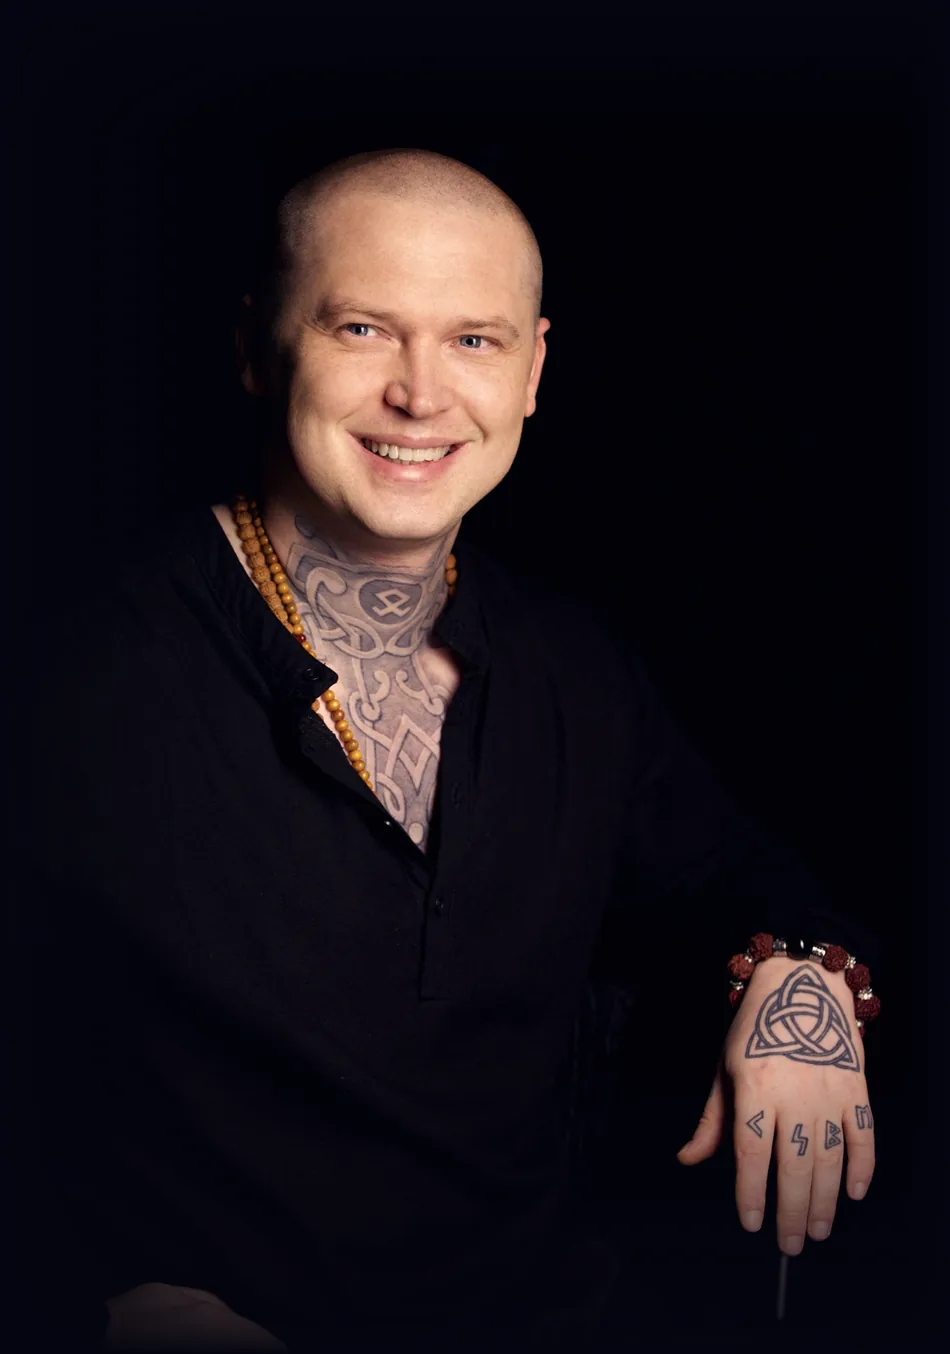
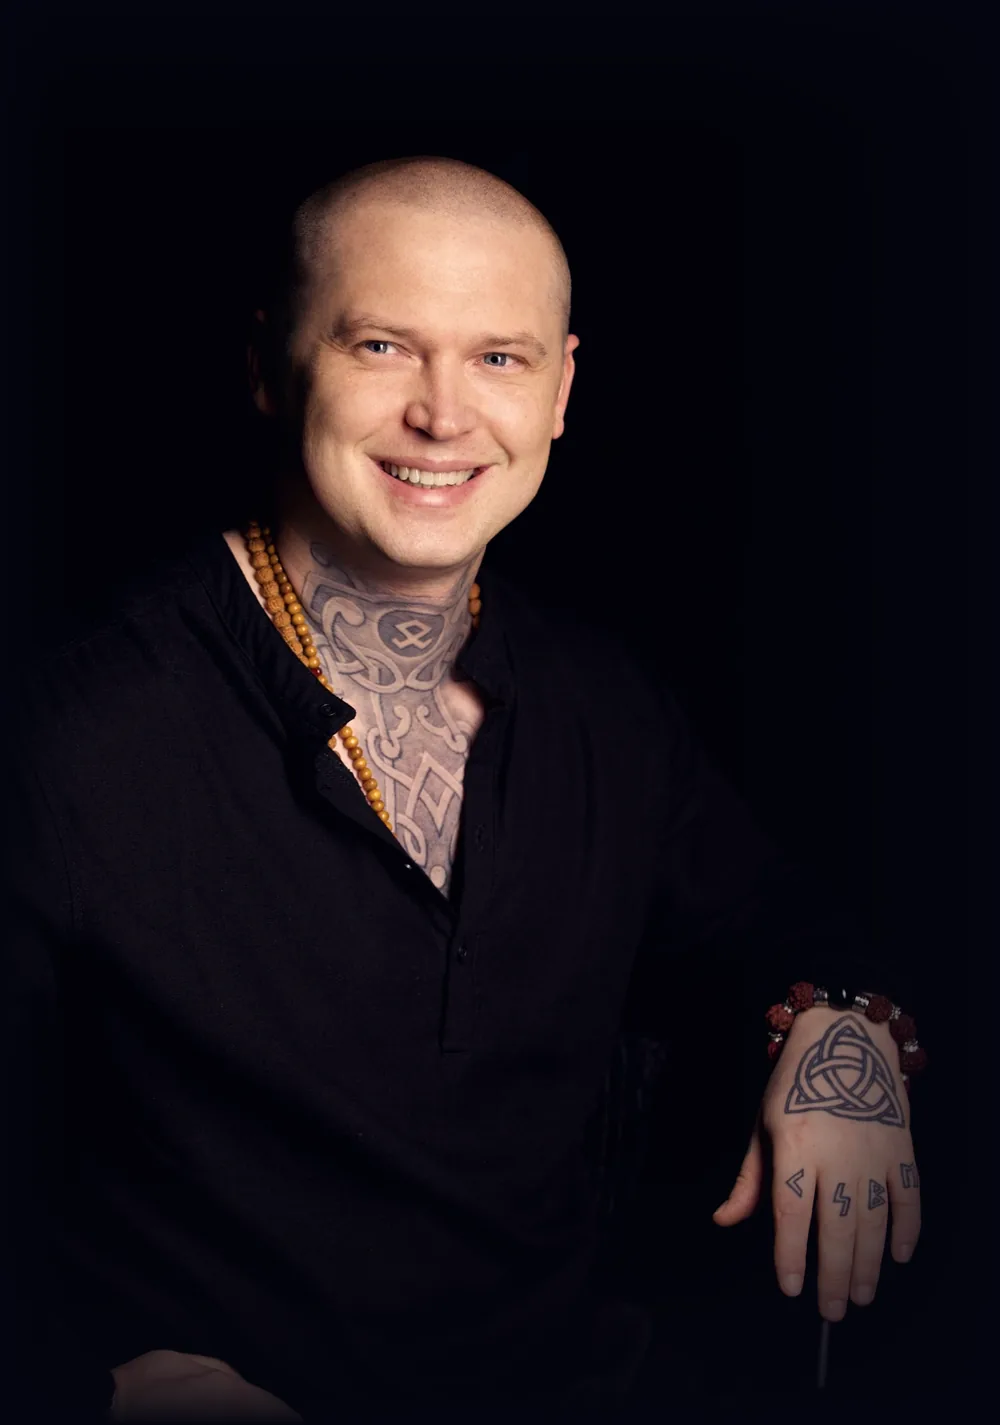
Author block: solid void, figure moves left, text moves right
The rectangle around the photo showed on desktop because I had tied the baked
backing colour to the veil, whose opacity changes as you scroll — so the two
matched at one scroll position and drifted apart at every other. The veil now
goes fully opaque and holds there for the whole time the figure is visible, in
exactly the colour baked behind it, which removes the edge by construction
rather than by approximation.

Sides swap per Vadym: figure left, copy right. The feather was re-rendered for
that placement — it now dissolves toward the text on the right and runs off the
left edge — and the figure is larger, overhanging the left of the screen.

The warm glow moves left with him.

Changed region(s): [[0.7632, 0.6824, 0.9463, 0.9306], [0.2137, 0.3722, 0.2747, 0.4343], [0.1526, 0.9306, 0.1832, 0.9616]]

diff --git a/src/components/AboutBlock.tsx b/src/components/AboutBlock.tsx
@@ -23,16 +23,20 @@ export default function AboutBlock() {
 
   const { scrollYProgress } = useScroll({ target: ref, offset: ["start end", "end start"] });
 
-  // Гасне світло на всій сторінці: космос, мандала, попередня секція, шапка.
-  const veil = useTransform(scrollYProgress, [0, 0.26, 0.4, 0.82, 0.99], [0, 0.86, 0.95, 0.95, 0]);
+  // Завіса гасить сторінку ДО ПОВНОЇ непрозорості й тримає її такою весь час,
+  // поки видно фігуру. Це принципово: підкладка фото зафарбована рівно цим
+  // кольором (#04050F), тож поки завіса суцільна — краю знімка не існує.
+  // Раніше вона зупинялась на 0.95, колір фону «плавав» разом зі скролом і на
+  // десктопі проступав прямокутник.
+  const veil = useTransform(scrollYProgress, [0, 0.2, 0.3, 0.87, 0.99], [0, 0.85, 1, 1, 0]);
 
-  // Постать зʼявляється трохи пізніше за темряву і трохи раніше відступає.
-  const figureOpacity = useTransform(scrollYProgress, [0.12, 0.36, 0.74, 0.92], [0, 1, 1, 0]);
-  const figureY = useTransform(scrollYProgress, [0, 1], ["4%", "-4%"]);
-  const figureScale = useTransform(scrollYProgress, [0.12, 0.5, 0.92], [1.05, 1, 1.03]);
+  // Фігура живе строго всередині вікна, де завіса вже суцільна.
+  const figureOpacity = useTransform(scrollYProgress, [0.3, 0.46, 0.8, 0.87], [0, 1, 1, 0]);
+  const figureY = useTransform(scrollYProgress, [0, 1], ["3%", "-3%"]);
+  const figureScale = useTransform(scrollYProgress, [0.3, 0.55, 0.87], [1.05, 1, 1.03]);
 
-  const textOpacity = useTransform(scrollYProgress, [0.2, 0.4, 0.74, 0.9], [0, 1, 1, 0]);
-  const textY = useTransform(scrollYProgress, [0.2, 0.4, 0.74, 0.9], [34, 0, 0, -20]);
+  const textOpacity = useTransform(scrollYProgress, [0.36, 0.52, 0.8, 0.87], [0, 1, 1, 0]);
+  const textY = useTransform(scrollYProgress, [0.36, 0.52, 0.8, 0.87], [30, 0, 0, -18]);
 
   return (
     <div ref={ref} className="relative min-h-[100svh] w-full">
@@ -40,7 +44,7 @@ export default function AboutBlock() {
         <motion.div
           aria-hidden
           style={{ opacity: veil }}
-          className="pointer-events-none fixed inset-0 z-[15] bg-[#04050D]"
+          className="pointer-events-none fixed inset-0 z-[15] bg-[#04050F]"
         />
       )}
 
@@ -48,31 +52,31 @@ export default function AboutBlock() {
       <div
         aria-hidden
         className="am__aurora pointer-events-none absolute inset-0 z-[20]"
-        style={{ background: "radial-gradient(38% 46% at 74% 52%, rgba(239,128,24,0.22), transparent 70%)" }}
+        style={{ background: "radial-gradient(38% 46% at 26% 52%, rgba(239,128,24,0.20), transparent 70%)" }}
       />
 
       {/* ПОСТАТЬ */}
       <motion.div
         style={reduced ? undefined : { opacity: figureOpacity, y: figureY, scale: figureScale }}
-        className="pointer-events-none absolute inset-x-0 top-0 z-[22] flex justify-center md:inset-y-0 md:left-auto md:right-0 md:top-auto md:justify-end md:translate-x-[3%]"
+        className="pointer-events-none absolute inset-x-0 top-0 z-[22] flex justify-center md:inset-x-auto md:left-0 md:top-[2svh] md:-translate-x-[5%]"
       >
         <Image
           src="/photos/vadym-figure.webp"
           alt={C.author.name}
-          width={1250}
-          height={1782}
-          sizes="(max-width: 768px) 100vw, 62vh"
+          width={1000}
+          height={1425}
+          sizes="(max-width: 768px) 100vw, 75vh"
           priority={false}
-          className="h-auto w-full max-w-none select-none md:h-[100svh] md:w-auto"
+          className="h-auto w-full max-w-none select-none md:h-[104svh] md:w-auto"
         />
       </motion.div>
 
       {/* ТЕКСТ */}
       <motion.div
         style={reduced ? undefined : { opacity: textOpacity, y: textY }}
-        className="relative z-[25] mx-auto flex min-h-[100svh] w-full max-w-[1500px] flex-col justify-end px-7 pb-14 pt-[54svh] md:justify-center md:px-[104px] md:pb-0 md:pt-0"
+        className="relative z-[25] mx-auto flex min-h-[100svh] w-full max-w-[1500px] flex-col justify-end px-7 pb-14 pt-[54svh] md:items-end md:justify-center md:px-[104px] md:pb-0 md:pt-0"
       >
-        <div className="max-w-[640px]">
+        <div className="max-w-[640px] md:w-[46%] md:min-w-[440px]">
           <div className="text-[12px] uppercase tracking-[0.22em] text-[var(--c432-amber)]">
             {C.author.eyebrow}
           </div>
